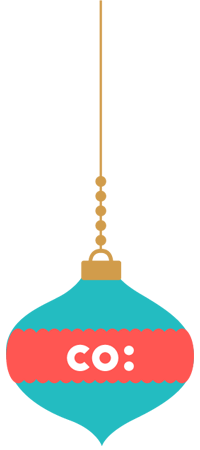
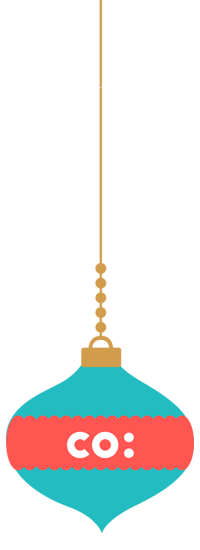
wip

Changed region(s): [[0.03, 0.3733, 0.99, 0.9022], [0.21, 0.9022, 0.78, 0.9956]]

diff --git a/css/main.min.css b/css/main.min.css
@@ -1,1 +1,1 @@
-@charset "UTF-8";html,section{width:100%;margin:0}footer,h2,section{text-align:center}html{height:100%;background:aaa}section{display:table;max-width:none;background-color:#fff;color:#23BCC1;font-family:majesti_bannermedium_italic;font-style:italic;font-size:36px}section .section-3{margin-top:60px;margin-bottom:60px}section img{width:100px}.footer-header{padding-top:50px}.footer-header img{width:50%}@font-face{font-family:majesti_bannermedium_italic;src:url(../font/majesti-banner-mediumitalic-webfont.eot);src:url(../font/majesti-banner-mediumitalic-webfont.eot?#iefix) format("embedded-opentype"),url(../font/majesti-banner-mediumitalic-webfont.woff2) format("woff2"),url(../font/majesti-banner-mediumitalic-webfont.woff) format("woff"),url(../font/majesti-banner-mediumitalic-webfont.ttf) format("truetype"),url(../font/majesti-banner-mediumitalic-webfont.svg#majesti_bannermedium_italic) format("svg");font-weight:400;font-style:normal}@font-face{font-family:DINEngschriftStd;src:url(../fonts/2DFFA3_0_0.eot);src:url(../fonts/2DFFA3_0_0-.eot#iefix) format("embedded-opentype"),url(../fonts/2DFFA3_0_0.woff2) format("woff2"),url(../fonts/2DFFA3_0_0.woff) format("woff"),url(../fonts/2DFFA3_0_0.ttf) format("truetype");font-weight:100}@font-face{font-family:FFDINWebPro;src:url(../fonts/2E26C5_12_0.eot);src:url(../fonts/2E26C5_12_0-.eot#iefix) format("embedded-opentype"),url(../fonts/2E26C5_12_0.woff2) format("woff2"),url(../fonts/2E26C5_12_0.woff) format("woff"),url(../fonts/2E26C5_12_0.ttf) format("truetype")}.cbp-rfgrid{margin:35px 0 0;padding:0;list-style:none;position:relative;width:100%}.cbp-rfgrid li{height:auto;position:relative;float:left;overflow:hidden}.cbp-rfgrid li img{height:auto;max-width:100%}.cbp-rfgrid li,.cbp-rfgrid li img{display:block;width:100%;cursor:pointer}@media screen and (max-width:3000px){.cbp-rfgrid li{height:auto;width:20%;width:calc(100% / 8)}.cbp-rfgrid li img{height:auto}}@media screen and (max-width:1500px){.cbp-rfgrid li{height:auto;width:20%;width:calc(100% / 8)}.cbp-rfgrid li img{height:auto}}@media screen and (max-width:1300px){.cbp-rfgrid li{height:auto;width:20%;width:calc(100% / 8)}.cbp-rfgrid li img{height:auto}}@media screen and (max-width:1250px){.cbp-rfgrid li{height:auto;width:20%;width:calc(100% / 8)}.cbp-rfgrid li img{height:auto}}@media screen and (max-width:1200px){.cbp-rfgrid li{height:auto;width:20%;width:calc(100% / 5)}.cbp-rfgrid li img{height:auto}}@media screen and (max-width:1190px){.cbp-rfgrid li{height:auto;width:20%;width:calc(100% / 5)}.cbp-rfgrid li img{height:auto}}@media screen and (max-width:1180px){.cbp-rfgrid li{height:auto;width:20%;width:calc(100% / 4)}.cbp-rfgrid li img{height:auto}}@media screen and (max-width:1050px){.cbp-rfgrid li{height:auto;width:20%;width:calc(100% / 4)}.cbp-rfgrid li img{height:auto}}@media screen and (max-width:945px){.cbp-rfgrid li{height:auto;width:25%;width:calc(100% / 3)}.ornaments div:nth-child(1){left:28%!important}.ornaments div:nth-child(2){left:38%!important}.ornaments div:nth-child(3){left:48%!important}.ornaments div:nth-child(4){left:50%!important}.ornaments div:nth-child(5){left:64%!important}.ornaments div:nth-child(6){left:70%!important}.ornaments div:nth-child(7){left:80%!important}}@media screen and (max-width:850px){.cbp-rfgrid li{height:auto;width:33.3333333%;width:calc(100% / 3)}}@media screen and (max-width:660px){.ornaments div:nth-child(1),.ornaments div:nth-child(3),.ornaments div:nth-child(5),.ornaments div:nth-child(7){display:none}.cbp-rfgrid li{height:auto;width:33.3333333%;width:calc(100% / 3)}.ornaments div:nth-child(2){left:0!important;top:-10em!important;-webkit-animation:from-top 2s .5s ease-out forwards;animation:from-top 2s .5s ease-out forwards}.ornaments div:nth-child(4){left:20%!important;top:-1em!important;-webkit-animation:from-top 2s 1.5s ease-out forwards;animation:from-top 2s 1.5s ease-out forwards}.ornaments div:nth-child(6){left:61%!important;top:-12em!important;-webkit-animation:from-top 2s 1.5s ease-out forwards;animation:from-top 2s 1.5s ease-out forwards}}@media screen and (max-width:560px){.cbp-rfgrid li{width:50%;width:calc(100% / 1)}.gift-wrapper .hero img{width:95%!important}.gift-wrapper .hero .copyblock{width:100%!important}.footer-header img{width:80%}.footer-grid{padding:30px 0!important}.footer-grid .center img,.footer-grid .left img,.footer-grid .right img{height:20px}}#snow,.ornaments{position:absolute;width:100%}@media screen and (max-width:300px){.cbp-rfgrid li{width:100%}}@-webkit-keyframes from-top{0%{-webkit-transform:translate(0,-100%);transform:translate(0,-100%)}100%{-webkit-transform:translate(0,0);transform:translate(0,0)}}@keyframes from-top{0%{-webkit-transform:translate(0,-100%);transform:translate(0,-100%)}100%{-webkit-transform:translate(0,0);transform:translate(0,0)}}.staff{margin:0 auto}@-webkit-keyframes swing{0%{-webkit-transform:rotate(3deg);transform:rotate(3deg)}100%{-webkit-transform:rotate(-3deg);transform:rotate(-3deg)}}@keyframes swing{0%{-webkit-transform:rotate(3deg);transform:rotate(3deg)}100%{-webkit-transform:rotate(-3deg);transform:rotate(-3deg)}}.ornaments{top:0}.ornaments div{position:absolute;top:0;left:0;-webkit-transform:translate(0,-100%);transform:translate(0,-100%)}.ornaments div:nth-child(1){left:27%;top:-1em;background:0 0;-webkit-animation:from-top 2s 0s ease-out forwards;animation:from-top 2s 0s ease-out forwards}.ornaments div:nth-child(2){left:33%;background:0 0;-webkit-animation:from-top 2s .5s ease-out forwards;animation:from-top 2s .5s ease-out forwards}.ornaments div:nth-child(3){left:39%;top:-5em;background:0 0;-webkit-animation:from-top 2s 1s ease-out forwards;animation:from-top 2s 1s ease-out forwards}.ornaments div:nth-child(4){left:43%;background:0 0;-webkit-animation:from-top 2s 1.5s ease-out forwards;animation:from-top 2s 1.5s ease-out forwards}.ornaments div:nth-child(5),.ornaments div:nth-child(6){-webkit-animation:from-top 2s 1.5s ease-out forwards;background:0 0}.ornaments div:nth-child(4) img{height:400px}.ornaments div:nth-child(5){left:53%;top:-1em;animation:from-top 2s 1.5s ease-out forwards}.ornaments div:nth-child(6){left:60%;animation:from-top 2s 1.5s ease-out forwards}.ornaments div:nth-child(6) img{height:350px}.ornaments div:nth-child(7){left:69%;top:-4em;background:0 0;-webkit-animation:from-top 2s 1.5s ease-out forwards;animation:from-top 2s 1.5s ease-out forwards}.ornaments div img{height:300px}#snow{background:url(http://www.wearewebstars.dk/codepen/img/s1.png),url(http://www.wearewebstars.dk/codepen/img//s2.png),url(http://www.wearewebstars.dk/codepen/img//s3.png);font-family:Androgyne;height:65%;left:0;top:0;z-index:1;-webkit-animation:snow 10s linear infinite;animation:snow 10s linear infinite}@keyframes snow{0%{background-position:0 0,0 0,0 0}50%{background-position:500px 500px,100px 200px,-100px 150px}100%{background-position:500px 1000px,200px 400px,-100px 300px}}@-webkit-keyframes snow{0%{background-position:0 0,0 0,0 0}50%{background-position:500px 500px,100px 200px,-100px 150px}100%{background-position:500px 1000px,200px 400px,-100px 300px}}h1,h2{font-family:majesti_bannermedium_italic}.gift-wrapper,.gift-wrapper .hero .copyblock{font-family:'Source Sans Pro',sans-serif}h2{font-size:60px;color:#fff}.gift-wrapper{margin:18em auto;font-size:23px;-moz-osx-font-smoothing:grayscale;-webkit-font-smoothing:antialiased}.gift-wrapper .hero{width:80%;position:relative;margin:0 auto}.gift-wrapper .hero .copyblock{text-align:center;margin:auto;color:#5D5D5D;font-size:22px;width:70%}.gift-wrapper .hero .copyblock .copyblack{color:#000}.gift-wrapper .hero .overlay{position:absolute;width:100%;height:100%;top:0;left:0;z-index:3}.gift-wrapper .hero img{display:block;position:absolute;top:0;left:0;z-index:-1;width:80%;margin:0 auto}.gift-wrapper .hero img.active{position:relative;z-index:2}.gift-wrapper .grid .item img.anim,.gift-wrapper .grid .item.active img{display:none}.gift-wrapper .grid .item.active img.anim{display:block}.gift-wrapper .grid .clr{clear:both}.footer-grid{height:50px;padding:20px 0;display:inline-block;width:55%}footer .center img,footer .left img,footer .right img{height:25px}footer .center,footer .left,footer .right{float:left;width:33%}footer{padding:0 0 50px;background-color:#23BCC1;color:#fff}footer a:hover{background:#ff9c9c;border:1px solid #ff9c9c;box-shadow:0 10px 6px -6px #777;padding:15px 10px 3px}
+@charset "UTF-8";html,section{width:100%;margin:0}footer,h2,section{text-align:center}html{height:100%;background:aaa}section{display:table;max-width:none;background-color:#fff;color:#23BCC1;font-family:majesti_bannermedium_italic;font-style:italic;font-size:36px}section .section-3{margin-top:60px;margin-bottom:60px}section img{width:100px}.footer-header{padding-top:50px}.footer-header img{width:50%}@font-face{font-family:majesti_bannermedium_italic;src:url(../font/majesti-banner-mediumitalic-webfont.eot);src:url(../font/majesti-banner-mediumitalic-webfont.eot?#iefix) format("embedded-opentype"),url(../font/majesti-banner-mediumitalic-webfont.woff2) format("woff2"),url(../font/majesti-banner-mediumitalic-webfont.woff) format("woff"),url(../font/majesti-banner-mediumitalic-webfont.ttf) format("truetype"),url(../font/majesti-banner-mediumitalic-webfont.svg#majesti_bannermedium_italic) format("svg");font-weight:400;font-style:normal}@font-face{font-family:DINEngschriftStd;src:url(../fonts/2DFFA3_0_0.eot);src:url(../fonts/2DFFA3_0_0-.eot#iefix) format("embedded-opentype"),url(../fonts/2DFFA3_0_0.woff2) format("woff2"),url(../fonts/2DFFA3_0_0.woff) format("woff"),url(../fonts/2DFFA3_0_0.ttf) format("truetype");font-weight:100}@font-face{font-family:FFDINWebPro;src:url(../fonts/2E26C5_12_0.eot);src:url(../fonts/2E26C5_12_0-.eot#iefix) format("embedded-opentype"),url(../fonts/2E26C5_12_0.woff2) format("woff2"),url(../fonts/2E26C5_12_0.woff) format("woff"),url(../fonts/2E26C5_12_0.ttf) format("truetype")}.cbp-rfgrid{margin:35px 0 0;padding:0;list-style:none;position:relative;width:100%}.cbp-rfgrid li{height:auto;position:relative;float:left;overflow:hidden}#snow,.ornaments,.ornaments div{position:absolute}.cbp-rfgrid li img{height:auto;max-width:100%}.cbp-rfgrid li,.cbp-rfgrid li img{display:block;width:100%;cursor:pointer}@media screen and (max-width:3000px){.cbp-rfgrid li{height:auto;width:20%;width:calc(100% / 8)}.cbp-rfgrid li img{height:auto}}@media screen and (max-width:1500px){.cbp-rfgrid li{height:auto;width:20%;width:calc(100% / 8)}.cbp-rfgrid li img{height:auto}}@media screen and (max-width:1300px){.cbp-rfgrid li{height:auto;width:20%;width:calc(100% / 8)}.cbp-rfgrid li img{height:auto}}@media screen and (max-width:1250px){.cbp-rfgrid li{height:auto;width:20%;width:calc(100% / 8)}.cbp-rfgrid li img{height:auto}}@media screen and (max-width:1200px){.cbp-rfgrid li{height:auto;width:20%;width:calc(100% / 5)}.cbp-rfgrid li img{height:auto}}@media screen and (max-width:1190px){.cbp-rfgrid li{height:auto;width:20%;width:calc(100% / 5)}.cbp-rfgrid li img{height:auto}}@media screen and (max-width:1180px){.cbp-rfgrid li{height:auto;width:20%;width:calc(100% / 4)}.cbp-rfgrid li img{height:auto}}@media screen and (max-width:1050px){.cbp-rfgrid li{height:auto;width:20%;width:calc(100% / 4)}.cbp-rfgrid li img{height:auto}}@media screen and (max-width:945px){.cbp-rfgrid li{height:auto;width:25%;width:calc(100% / 3)}}@media screen and (max-width:850px){.cbp-rfgrid li{height:auto;width:33.3333333%;width:calc(100% / 3)}}@media screen and (max-width:660px){.ornaments div:nth-child(1),.ornaments div:nth-child(3),.ornaments div:nth-child(5),.ornaments div:nth-child(7){display:none}.cbp-rfgrid li{height:auto;width:33.3333333%;width:calc(100% / 3)}.ornaments{width:92%!important}.ornaments div:nth-child(4){top:-1em!important}.ornaments div:nth-child(6){left:61%!important}}@media screen and (max-width:560px){.cbp-rfgrid li{width:50%;width:calc(100% / 1)}.ornaments{width:100%}.ornaments div:nth-child(2){left:20%!important}.ornaments div:nth-child(4){left:38%!important}.ornaments div:nth-child(6){left:63%!important}.gift-wrapper .hero img{width:95%!important}.gift-wrapper .hero .copyblock{width:100%!important}.footer-header img{width:80%}.footer-grid{padding:30px 0!important}.footer-grid .center img,.footer-grid .left img,.footer-grid .right img{height:20px}}@media screen and (max-width:350px){.ornaments{width:100%}.ornaments div:nth-child(2){left:13%!important}.ornaments div:nth-child(4){left:35%!important}.ornaments div:nth-child(6){left:69%!important}}@media screen and (max-width:300px){.cbp-rfgrid li,.ornaments{width:100%}.ornaments div:nth-child(2){left:1%!important}.ornaments div:nth-child(4){left:32%!important;top:-2em!important}.ornaments div:nth-child(6){left:75%!important}}@-webkit-keyframes from-top{0%{-webkit-transform:translate(0,-100%);transform:translate(0,-100%)}100%{-webkit-transform:translate(0,0);transform:translate(0,0)}}@keyframes from-top{0%{-webkit-transform:translate(0,-100%);transform:translate(0,-100%)}100%{-webkit-transform:translate(0,0);transform:translate(0,0)}}.staff{margin:0 auto}@-webkit-keyframes swing{0%{-webkit-transform:rotate(3deg);transform:rotate(3deg)}100%{-webkit-transform:rotate(-3deg);transform:rotate(-3deg)}}@keyframes swing{0%{-webkit-transform:rotate(3deg);transform:rotate(3deg)}100%{-webkit-transform:rotate(-3deg);transform:rotate(-3deg)}}.ornaments{top:15px;width:100%}.ornaments div{top:0;left:0;-webkit-transform:translate(0,-100%);transform:translate(0,-100%)}.ornaments div:nth-child(1){width:80px;left:27%;top:-3em;background:0 0;-webkit-animation:from-top 2s 0s ease-out forwards;animation:from-top 2s 0s ease-out forwards}.ornaments div:nth-child(1) img{width:80px}.ornaments div:nth-child(2){width:100px;left:33%;top:-2em;background:0 0;-webkit-animation:from-top 2s .5s ease-out forwards;animation:from-top 2s .5s ease-out forwards}.ornaments div:nth-child(2) img{width:100px}.ornaments div:nth-child(3){width:80px;left:39%;top:-4em;background:0 0;-webkit-animation:from-top 2s 1s ease-out forwards;animation:from-top 2s 1s ease-out forwards}.ornaments div:nth-child(3) img{width:80px}.ornaments div:nth-child(4){width:120px;left:43%;top:-2em;background:0 0;-webkit-animation:from-top 2s 1.5s ease-out forwards;animation:from-top 2s 1.5s ease-out forwards}.ornaments div:nth-child(5),.ornaments div:nth-child(6){-webkit-animation:from-top 2s 1.5s ease-out forwards;background:0 0}.ornaments div:nth-child(4) img{width:120px}.ornaments div:nth-child(5){width:80px;left:53%;top:-5em;animation:from-top 2s 1.5s ease-out forwards}.ornaments div:nth-child(5) img{width:80px}.ornaments div:nth-child(6){width:90px;left:57%;top:-2em;animation:from-top 2s 1.5s ease-out forwards}.ornaments div:nth-child(6) img{width:90px}.ornaments div:nth-child(7){width:70px;left:66%;top:-4em;background:0 0;-webkit-animation:from-top 2s 1.5s ease-out forwards;animation:from-top 2s 1.5s ease-out forwards}.ornaments div img{width:70px}#snow{background:url(http://www.wearewebstars.dk/codepen/img/s1.png),url(http://www.wearewebstars.dk/codepen/img//s2.png),url(http://www.wearewebstars.dk/codepen/img//s3.png);font-family:Androgyne;height:75%;left:0;top:0;width:100%;z-index:6;-webkit-animation:snow 10s linear infinite;animation:snow 10s linear infinite}@keyframes snow{0%{background-position:0 0,0 0,0 0}50%{background-position:500px 500px,100px 200px,-100px 150px}100%{background-position:500px 1000px,200px 400px,-100px 300px}}@-webkit-keyframes snow{0%{background-position:0 0,0 0,0 0}50%{background-position:500px 500px,100px 200px,-100px 150px}100%{background-position:500px 1000px,200px 400px,-100px 300px}}h1,h2{font-family:majesti_bannermedium_italic}.gift-wrapper,.gift-wrapper .hero .copyblock{font-family:'Source Sans Pro',sans-serif}h2{font-size:60px;color:#fff}.gift-wrapper{margin:10em auto;font-size:23px;-moz-osx-font-smoothing:grayscale;-webkit-font-smoothing:antialiased}.gift-wrapper .hero{padding:50px 0;position:relative;margin:0 auto}.gift-wrapper .hero .copyblock{text-align:center;margin:auto;color:#5D5D5D;font-size:22px;width:70%}.gift-wrapper .hero .copyblock p{margin:-10px 0}.gift-wrapper .hero .overlay{position:absolute;width:100%;height:100%;top:0;left:0;z-index:3}.gift-wrapper .hero img{display:block;position:absolute;top:0;left:0;z-index:-1;width:60%;margin:0 auto}.gift-wrapper .hero img.active{position:relative;z-index:2}.gift-wrapper .grid .item img.anim,.gift-wrapper .grid .item.active img{display:none}.gift-wrapper .grid .item.active img.anim{display:block}.gift-wrapper .grid .clr{clear:both}.footer-grid{height:50px;padding:20px 0;display:inline-block;width:55%}footer .center img,footer .left img,footer .right img{height:25px}footer .center,footer .left,footer .right{float:left;width:33%}footer{padding:0 0 50px;background-color:#23BCC1;color:#fff}footer a:hover{background:#ff9c9c;border:1px solid #ff9c9c;box-shadow:0 10px 6px -6px #777;padding:15px 10px 3px}

diff --git a/css/src/main.scss b/css/src/main.scss
@@ -24,7 +24,7 @@
 
 .ornaments {
   position: absolute;
-  top: 0;
+  top: 15px;
   width: 100%;
    div {
      position: absolute;
@@ -33,69 +33,93 @@
      transform: translate(0, -100%);
 
      &:nth-child(1){
+        width: 80px;
          left: 27%;
-         top: -1em;
+         top: -3em;
          background: transparent;
        @include animation(from-top 2s 0s ease-out forwards);
+       img {
+         width: 80px;
+       }
      }
 
      &:nth-child(2){
+       width: 100px;
        left: 33%;
+       top: -2em;
        background: transparent;
         @include animation(from-top 2s .5s ease-out forwards);
+        img {
+          width: 100px;
+        }
      }
 
      &:nth-child(3){
+       width: 80px;
        left: 39%;
-       top: -5em;
+       top: -4em;
        background: transparent;
        @include animation(from-top 2s 1s ease-out forwards);
+       img {
+         width: 80px;
+       }
      }
 
      &:nth-child(4){
+       width: 120px;
        left: 43%;
+       top: -2em;
        background: transparent;
        @include animation(from-top 2s 1.5s ease-out forwards);
        img {
-         height: 400px;
+         width: 120px;
        }
      }
 
      &:nth-child(5){
+       width: 80px;
        left: 53%;
-       top: -1em;
-       background: transparent;
-       @include animation(from-top 2s 1.5s ease-out forwards);
-     }
-     &:nth-child(6){
-       left: 60%;
+       top: -5em;
        background: transparent;
        @include animation(from-top 2s 1.5s ease-out forwards);
        img {
-         height: 350px;
+         width: 80px;
+       }
+     }
+     &:nth-child(6){
+       width: 90px;
+       left: 57%;
+       top: -2em;
+       background: transparent;
+       @include animation(from-top 2s 1.5s ease-out forwards);
+       img {
+         width: 90px;
        }
      }
      &:nth-child(7){
-       left: 69%;
+       width: 70px;
+       left: 66%;
        top: -4em;
        background: transparent;
        @include animation(from-top 2s 1.5s ease-out forwards);
      }
      img {
-       height: 300px;
+       width: 70px;
      }
    }
 }
 #snow{
 	background: none;
 	font-family: Androgyne;
-	background-image: url('http://www.wearewebstars.dk/codepen/img/s1.png'), url('http://www.wearewebstars.dk/codepen/img//s2.png'), url('http://www.wearewebstars.dk/codepen/img//s3.png');
-	height: 65%;
+	background-image: url('http://www.wearewebstars.dk/codepen/img/s1.png'),
+  url('http://www.wearewebstars.dk/codepen/img//s2.png'),
+  url('http://www.wearewebstars.dk/codepen/img//s3.png');
+	height: 75%;
 	left: 0;
 	position: absolute;
 	top: 0;
 	width: 100%;
-	z-index:1;
+	z-index: 6;
 	-webkit-animation: snow 10s linear infinite;
 	-moz-animation: snow 10s linear infinite;
 	-ms-animation: snow 10s linear infinite;
@@ -137,7 +161,7 @@ h2 {
 }
 
 .gift-wrapper {
-  margin: 18em auto;
+  margin: 10em auto;
   font-family: 'Source Sans Pro', sans-serif;
   font-size: 23px;
   -moz-osx-font-smoothing: grayscale;
@@ -145,7 +169,7 @@ h2 {
 
 
 	.hero {
-		width: 80%;
+    padding: 50px 0px;
 		position: relative;
     margin: 0 auto;
     .copyblock {
@@ -155,8 +179,10 @@ h2 {
           color: #5D5D5D;
           font-size: 22px;
               width: 70%;
-          .copyblack {color:black;}
-        }
+              p {
+                margin: -10px 0;
+              }
+            }
         .overlay {
   position: absolute;
   width: 100%;
@@ -171,7 +197,7 @@ h2 {
 			top: 0;
 			left: 0;
 			z-index: -1;
-         width: 80%;
+         width: 60%;
     margin: 0 auto;
 
 			&.active {

diff --git a/css/src/_grid.scss b/css/src/_grid.scss
@@ -132,15 +132,15 @@
 		width: calc(100% / 3);
 	}
 .ornaments {
-   div {
-     &:nth-child(1){left: 28%!important;}
-     &:nth-child(2){left: 38%!important;}
-     &:nth-child(3){left: 48%!important;}
-     &:nth-child(4){left: 50%!important;}
-     &:nth-child(5){left: 64%!important;}
-     &:nth-child(6){left: 70%!important;}
-     &:nth-child(7){left: 80%!important;}
-   }
+  // div {
+  //   &:nth-child(1){left: 28%!important;}
+  //   &:nth-child(2){left: 38%!important;}
+  //   &:nth-child(3){left: 48%!important;}
+  //   &:nth-child(4){left: 50%!important;}
+  //   &:nth-child(5){left: 64%!important;}
+  //   &:nth-child(6){left: 70%!important;}
+  //   &:nth-child(7){left: 80%!important;}
+  // }
 	}
 }
 @media screen and (max-width: 850px) {
@@ -159,42 +159,17 @@
 		width: calc(100% / 3);
 	}
 	.ornaments {
+		width: 92%!important;
 		 div {
-
-			 &:nth-child(1){
-					 display: none;
-			 }
-
-			 &:nth-child(2){
-				 left: 0% !important;
-						 top: -10em !important;
-					@include animation(from-top 2s .5s ease-out forwards);
-			 }
-
-			 &:nth-child(3){
-				 display: none;
-			 }
-
-			 &:nth-child(4){
-				 left: 20% !important;
-				 top: -1em !important;
-				 @include animation(from-top 2s 1.5s ease-out forwards);
-			 }
-
-			 &:nth-child(5){
-				 display: none;
-			 }
-			 &:nth-child(6){
-				 left: 61% !important;
-				 top: -12em !important;
-				 @include animation(from-top 2s 1.5s ease-out forwards);
-			 }
-			 &:nth-child(7){
-				display: none;
-			 }
+			 &:nth-child(1){display: none;}
+			 &:nth-child(2){}
+			 &:nth-child(3){display: none;}
+			 &:nth-child(4){top:-1em !important;}
+			 &:nth-child(5){display: none;}
+			 &:nth-child(6){left: 61% !important;}
+			 &:nth-child(7){display: none;}
 		 }
-	}
-
+		}
 }
 
 @media screen and (max-width: 560px) {
@@ -202,7 +177,19 @@
 		width: 50%; /* Fallback */
 		width: -webkit-calc(100% / 1);
 		width: calc(100% / 1);
-	}
+		}
+		.ornaments {
+			width:100%;
+		   div {
+		     &:nth-child(1){}
+		     &:nth-child(2){left:20%!important;}
+		     &:nth-child(3){}
+		     &:nth-child(4){left:38%!important;}
+		     &:nth-child(5){}
+		     &:nth-child(6){left:63%!important;}
+		     &:nth-child(7){}
+		   }
+			}
 
 	.gift-wrapper {
 		.hero {
@@ -239,8 +226,35 @@
 	}
 }
 
+@media screen and (max-width: 350px) {
+	.ornaments {
+		width:100%;
+		 div {
+			 &:nth-child(1){}
+			 &:nth-child(2){left:13%!important;}
+			 &:nth-child(3){}
+			 &:nth-child(4){left:35%!important;}
+			 &:nth-child(5){}
+			 &:nth-child(6){left:69%!important;}
+			 &:nth-child(7){}
+		 }
+		}
+}
+
 @media screen and (max-width: 300px) {
 	.cbp-rfgrid li {
 		width: 100%;
 	}
+	.ornaments {
+		width:100%;
+		 div {
+			 &:nth-child(1){}
+			 &:nth-child(2){left:1%!important;}
+			 &:nth-child(3){}
+			 &:nth-child(4){left:32%!important;top:-2em!important;}
+			 &:nth-child(5){}
+			 &:nth-child(6){left:75%!important;}
+			 &:nth-child(7){}
+		 }
+		}
 }

diff --git a/index.html b/index.html
@@ -32,8 +32,7 @@
       <div class="overlay"></div>
       <img class="active" src="http://co-holiday-site-2015.s3.amazonaws.com/images/hero.png" />
       <div class="copyblock">
-        co: cares. This year, we gave a shit and helped WaterAid America raise awareness about World Toilet Day and the global sanitation crisis.
-        <p class="">How? With the power of poop.</p>
+        <p>At co: we care. This year, we helped WaterAid America raise awareness about World Toilet Day and the global sanitation crisis.<br>How? With the power of poop.</p>
       </div>
     </div>
 <div class="staff">
